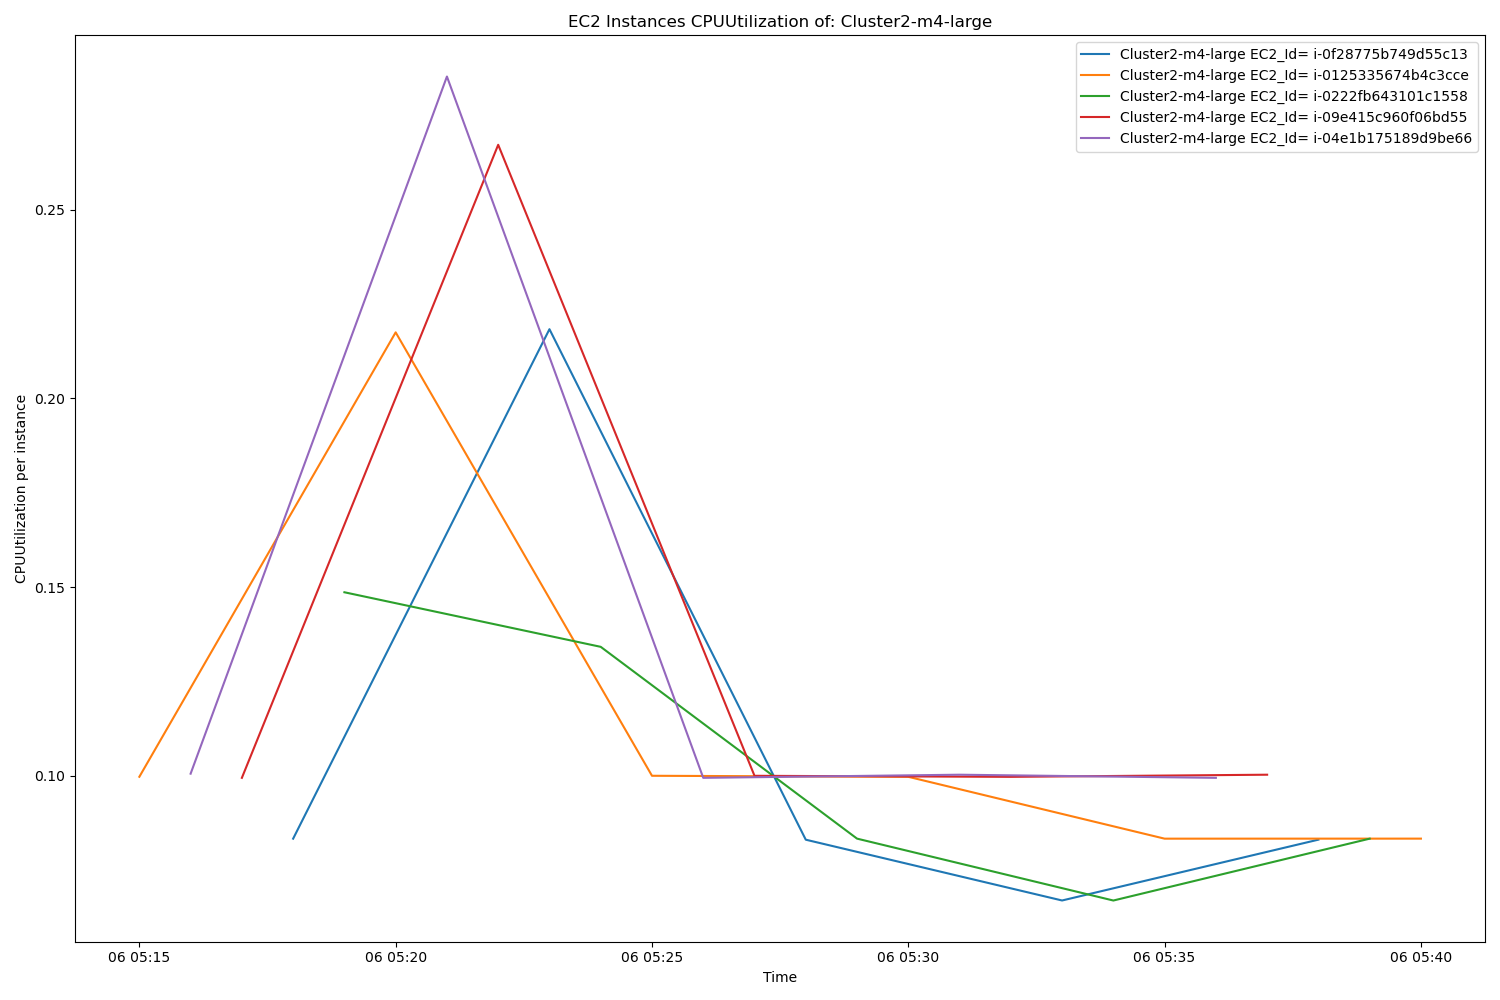
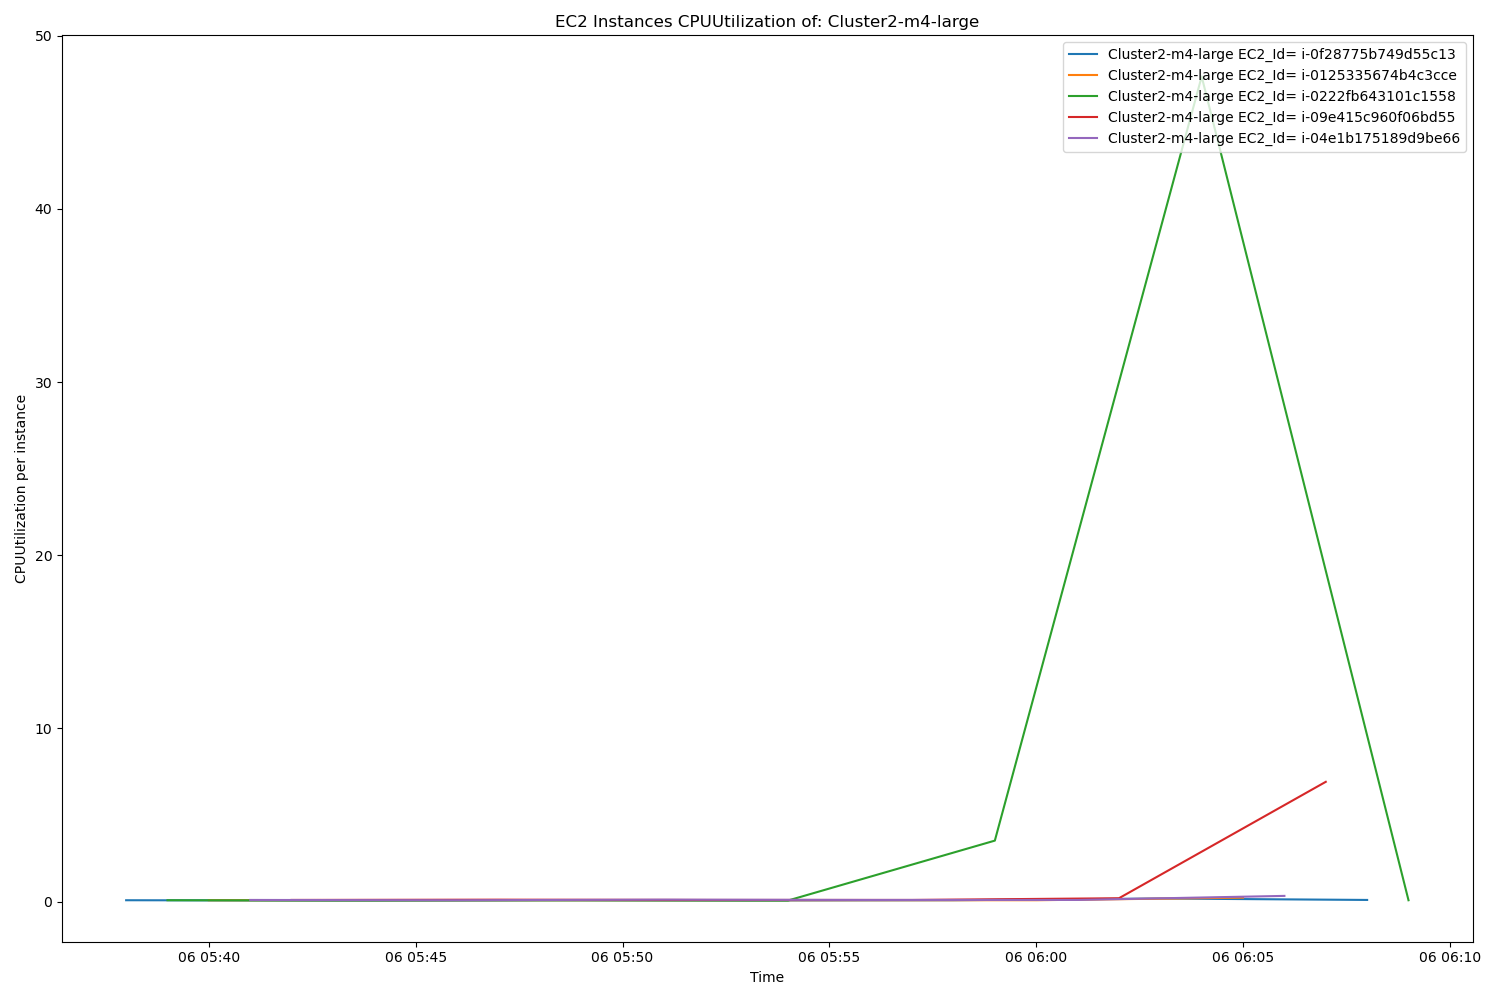
testing plots

diff --git a/TP1/Docker/Benchemarking_main.py b/TP1/Docker/Benchemarking_main.py
@@ -82,25 +82,25 @@ if __name__ == '__main__':
 
 
     #Plot 'RequestCount' metric per cluster in the specified path
-    plot_metric_clusters(Cloudwatch_client,'metric1','RequestCount',load_balancerarn,TargetGroups_arns_list,EndTime-timedelta(minutes=10),EndTime+timedelta(minutes=2),Period,'Sum',path)
+    plot_metric_clusters(Cloudwatch_client,'metric1','RequestCount',load_balancerarn,TargetGroups_arns_list,EndTime-timedelta(minutes=6),EndTime+timedelta(minutes=2),Period,'Sum',path)
 
     #Plot 'RequestCountPerTarget' metric per cluster in the specified path
-    plot_metric_clusters(Cloudwatch_client,'metric2','RequestCountPerTarget',load_balancerarn,TargetGroups_arns_list,EndTime-timedelta(minutes=10),EndTime+timedelta(minutes=2),Period,'Sum',path)
+    plot_metric_clusters(Cloudwatch_client,'metric2','RequestCountPerTarget',load_balancerarn,TargetGroups_arns_list,EndTime-timedelta(minutes=6),EndTime+timedelta(minutes=2),Period,'Sum',path)
 
     #Plot 'TargetResponseTime' metric per cluster in the specified path
-    plot_metric_clusters(Cloudwatch_client,'metric3','TargetResponseTime',load_balancerarn,TargetGroups_arns_list,EndTime-timedelta(minutes=10),EndTime+timedelta(minutes=2),Period,'Sum',path)
+    plot_metric_clusters(Cloudwatch_client,'metric3','TargetResponseTime',load_balancerarn,TargetGroups_arns_list,EndTime-timedelta(minutes=6),EndTime+timedelta(minutes=2),Period,'Sum',path)
     
     #Plot 'Healthy Hosts' metric per cluster in the specified path
-    plot_metric_clusters(Cloudwatch_client,'metric4','HealthyHostCount',load_balancerarn,TargetGroups_arns_list,EndTime-timedelta(minutes=10),EndTime+timedelta(minutes=2),Period,'Minimum',path)
+    plot_metric_clusters(Cloudwatch_client,'metric4','HealthyHostCount',load_balancerarn,TargetGroups_arns_list,EndTime-timedelta(minutes=6),EndTime+timedelta(minutes=2),Period,'Minimum',path)
 
     
     #Plot Average 'CPUUtilization' metric of all instances per cluster
-    plot_Instances_metrics_per_cluster(Cloudwatch_client,'metric5',TargetGroups_names_list[0],'CPUUtilization',Instances_Ids_TG1,EndTime-timedelta(minutes=10), EndTime+timedelta(minutes=30),Period,'Average',path)
-    plot_Instances_metrics_per_cluster(Cloudwatch_client,'metric6',TargetGroups_names_list[1],'CPUUtilization',Instances_Ids_TG2,EndTime-timedelta(minutes=10), EndTime+timedelta(minutes=30),Period,'Average',path)
+    plot_Instances_metrics_per_cluster(Cloudwatch_client,'metric5',TargetGroups_names_list[0],'CPUUtilization',Instances_Ids_TG1,EndTime-timedelta(minutes=30), EndTime+timedelta(minutes=30),Period,'Average',path)
+    plot_Instances_metrics_per_cluster(Cloudwatch_client,'metric6',TargetGroups_names_list[1],'CPUUtilization',Instances_Ids_TG2,EndTime-timedelta(minutes=30), EndTime+timedelta(minutes=30),Period,'Average',path)
 
     #Plot Average 'NetworkPacketsIn' metric of all instances per cluster
-    plot_Instances_metrics_per_cluster(Cloudwatch_client,'metric7',TargetGroups_names_list[0],'NetworkPacketsIn',Instances_Ids_TG1,EndTime-timedelta(minutes=10), EndTime+timedelta(minutes=30),Period,'Sum',path)
-    plot_Instances_metrics_per_cluster(Cloudwatch_client,'metric8',TargetGroups_names_list[1],'NetworkPacketsIn',Instances_Ids_TG2,EndTime-timedelta(minutes=10), EndTime+timedelta(minutes=30),Period,'Sum',path)
+    plot_Instances_metrics_per_cluster(Cloudwatch_client,'metric7',TargetGroups_names_list[0],'NetworkPacketsIn',Instances_Ids_TG1,EndTime-timedelta(minutes=30), EndTime+timedelta(minutes=30),Period,'Sum',path)
+    plot_Instances_metrics_per_cluster(Cloudwatch_client,'metric8',TargetGroups_names_list[1],'NetworkPacketsIn',Instances_Ids_TG2,EndTime-timedelta(minutes=30), EndTime+timedelta(minutes=30),Period,'Sum',path)
     
     print('============================>Ploting metrics ends')
 
